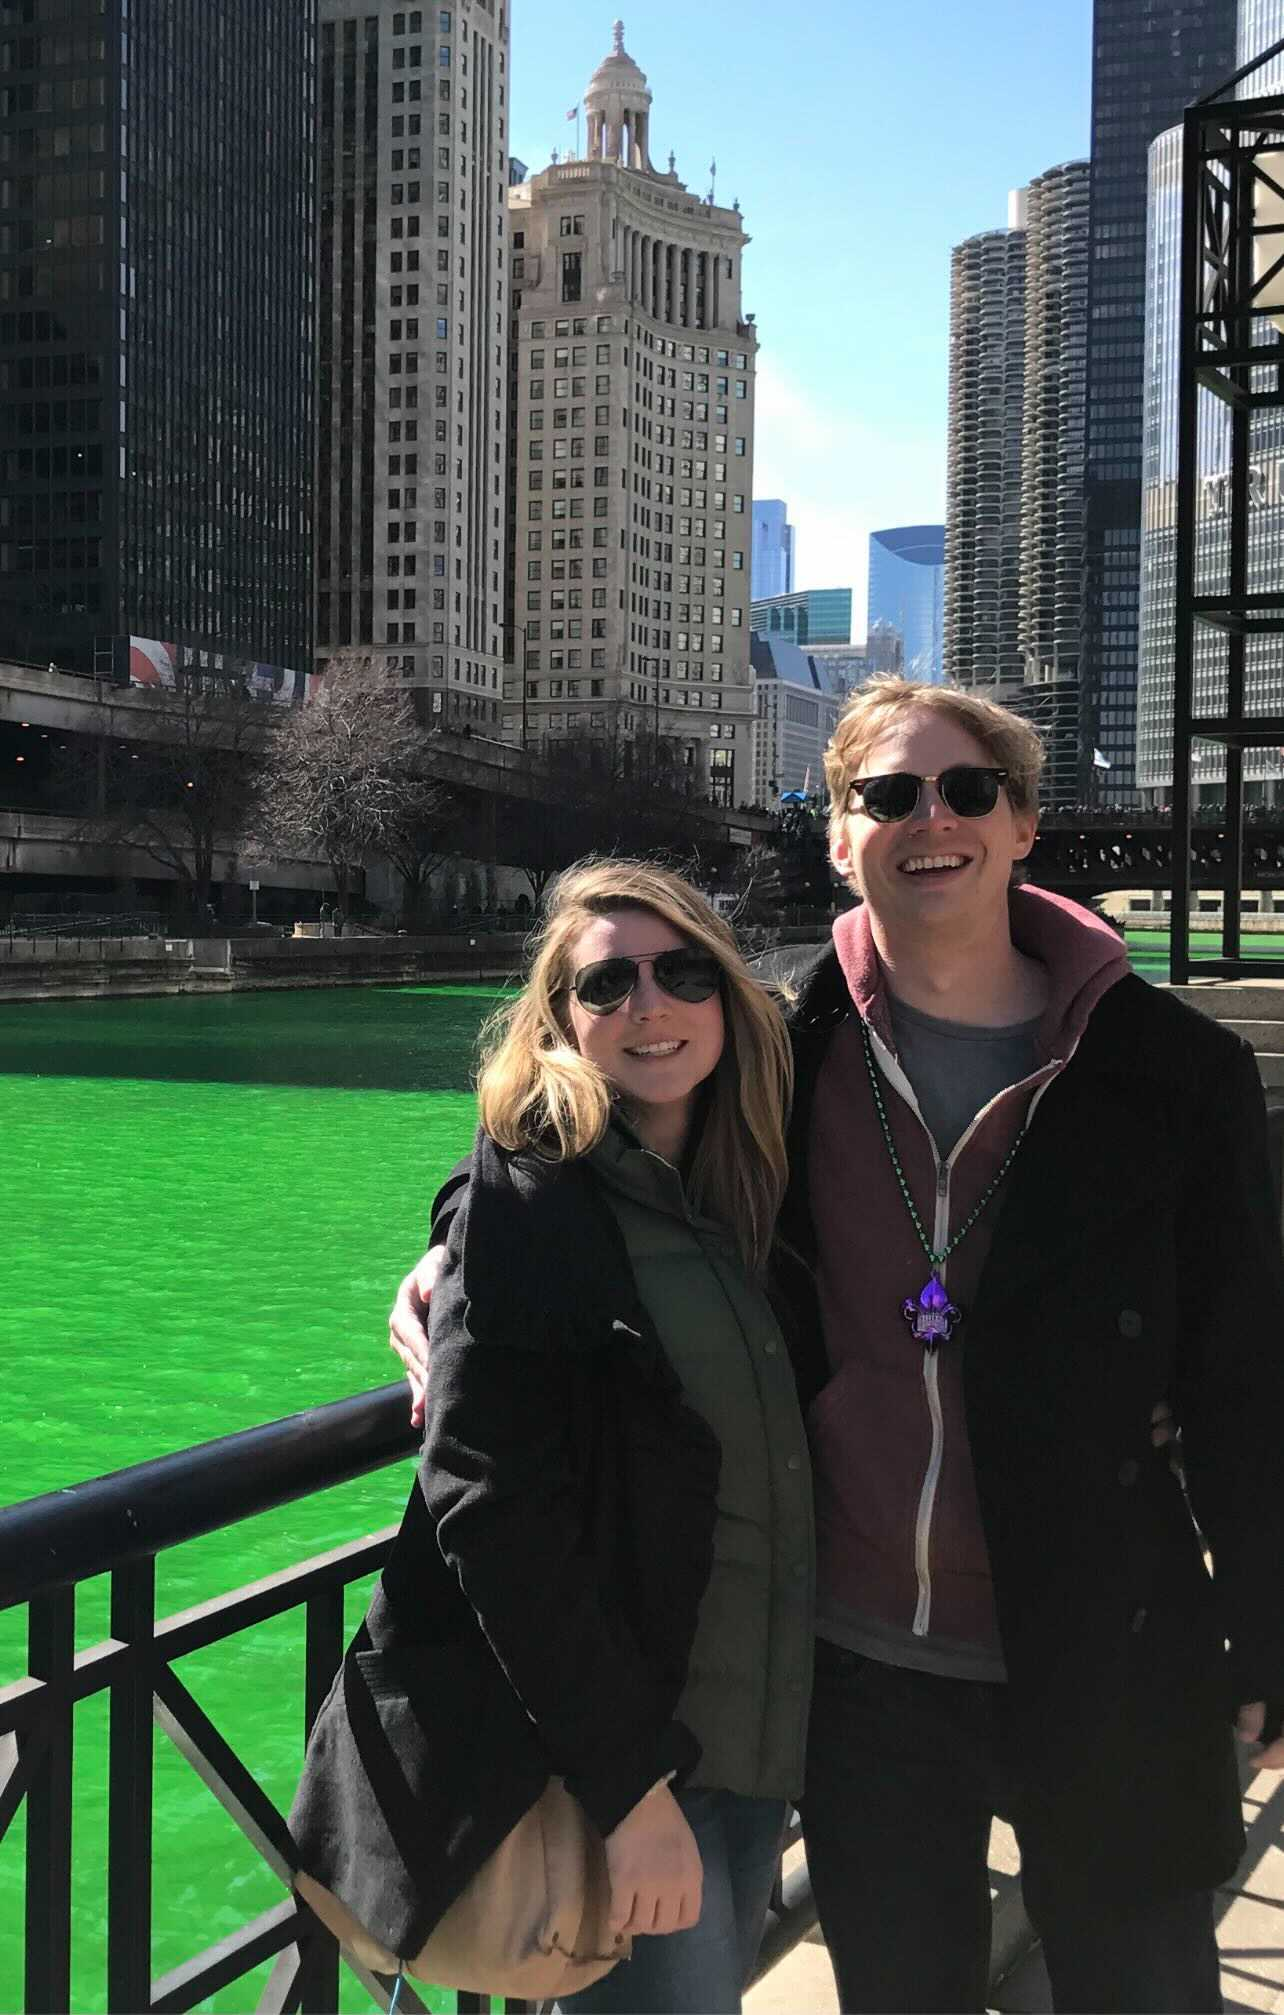
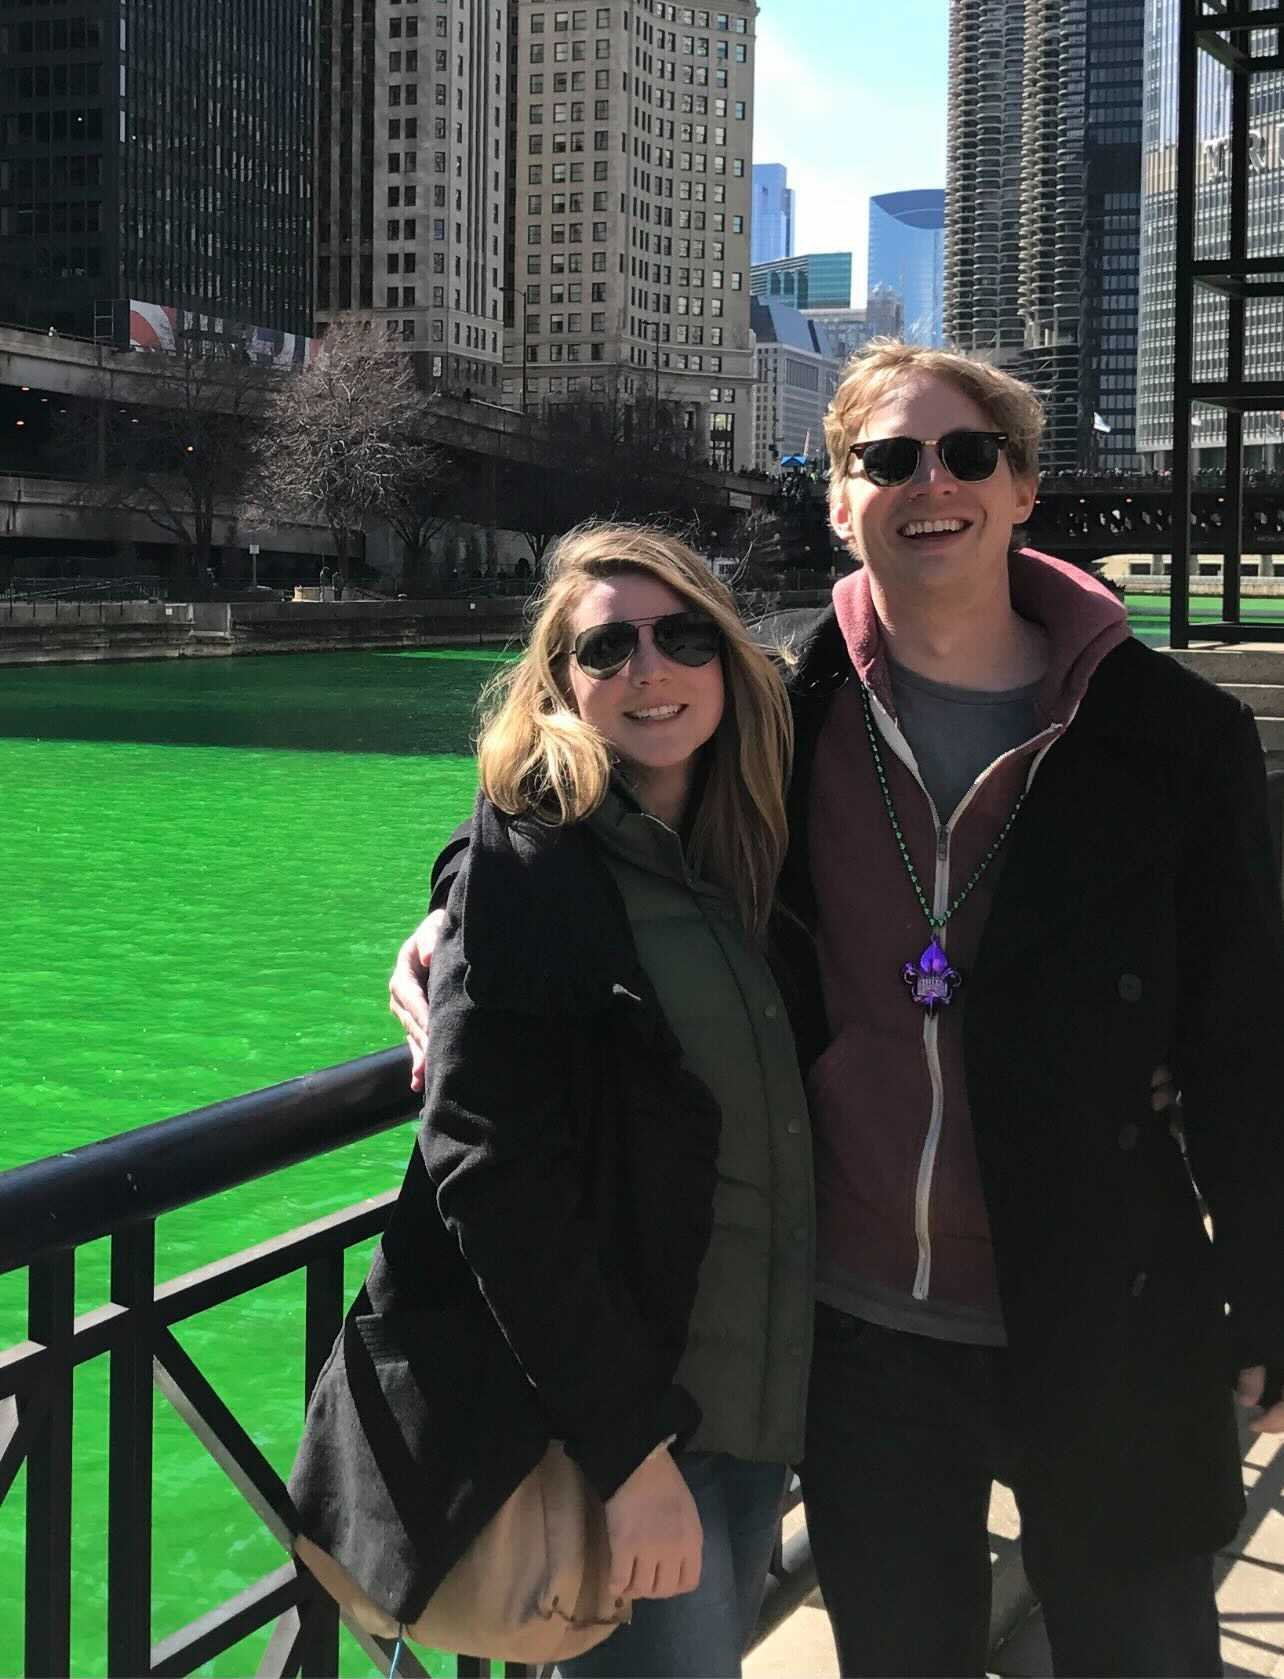
Image cleanup

diff --git a/src/components/Gallery/style.css b/src/components/Gallery/style.css
@@ -1,16 +1,19 @@
 .Gallery-section {
     background: rgba(178, 201, 211, 0.1);
 }
+
 .gallery-img {
     cursor: pointer;
     margin-bottom: 30px;
     overflow: hidden;
 }
+
 .thumbnail {
     transform: scale(1);
     overflow: hidden;
     transition: all 0.3s;
 }
+
 .gallery-img:hover .thumbnail {
     transform: scale(1.1);
 }
@@ -28,5 +31,9 @@
     .react-fancybox {
         height: 300px;
         overflow: hidden;
+    }
+
+    .react-fancybox .box .image-box {
+        width: 90%;
     }
 }

diff --git a/src/components/Gallery/index.js b/src/components/Gallery/index.js
@@ -6,7 +6,7 @@ import "./style.css"
 
 import gallery1 from "../../images/gallery/zachs-wedding.jpg"
 import gallery2 from "../../images/gallery/williams-wedding.jpg"
-import gallery3 from "../../images/gallery/outside-hh.jpg"
+import gallery3 from "../../images/gallery/lake-hug.png"
 import gallery4 from "../../images/gallery/cayman-islands.jpg"
 import gallery5 from "../../images/gallery/chicago.jpg"
 import gallery6 from "../../images/gallery/trail-of-lights.jpg"

diff --git a/src/components/Footer/style.css b/src/components/Footer/style.css
@@ -1,6 +1,5 @@
 .site-footer {
-    background: url(../../images/slider/engagement.jpg) no-repeat center
-        center;
+    background: url(../../images/slider/engagement.jpg) no-repeat center center;
     -webkit-background-size: cover;
     -moz-background-size: cover;
     -o-background-size: cover;
